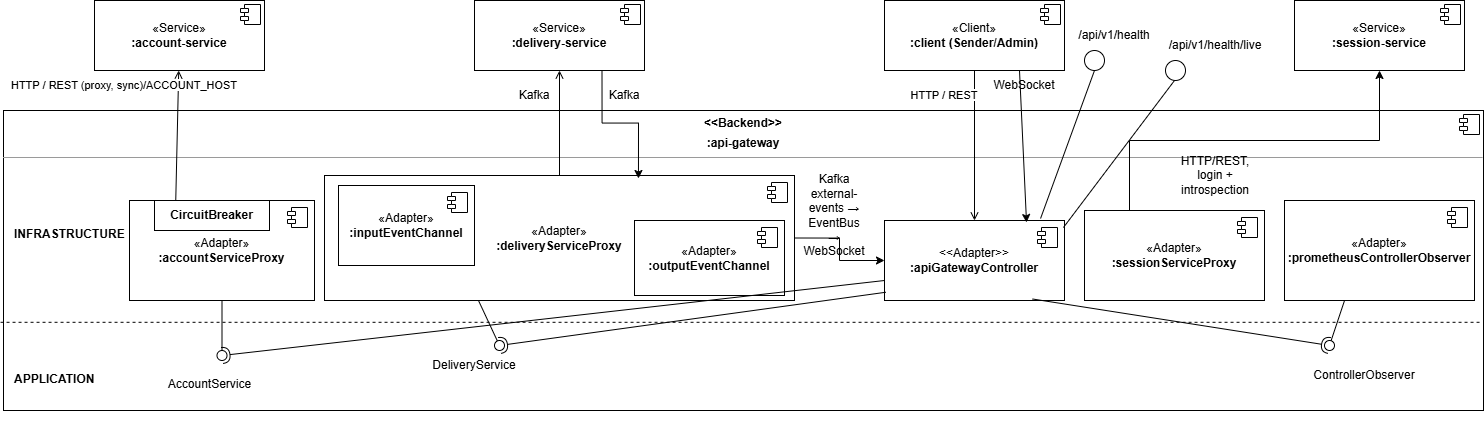
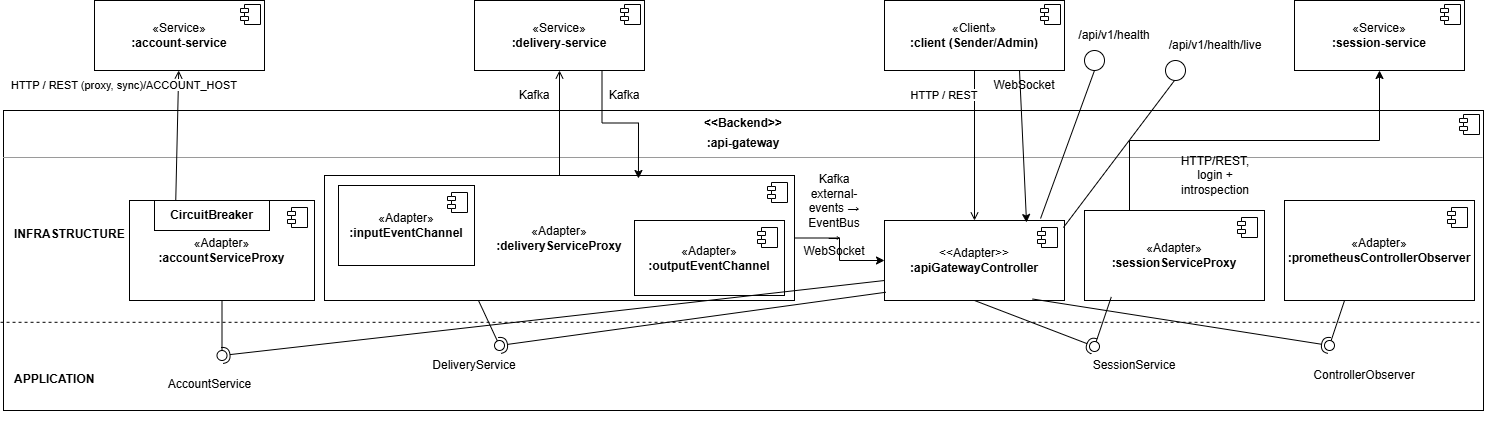
Remove comments and Update gateway diagram

diff --git a/delivery-service/src/test/java/it/unibo/sap/delivery/infrastructure/DeliveryRecoveryServiceTest.java b/delivery-service/src/test/java/it/unibo/sap/delivery/infrastructure/DeliveryRecoveryServiceTest.java
@@ -53,8 +53,6 @@ class DeliveryRecoveryServiceTest {
     @TempDir
     Path tempDir;
 
-    // Stop every FleetModule we start, or the DroneAgent worker threads leak and later tests hit
-    // RejectedExecutionException (see A3 commit 931b2c3).
     private final List<FleetModule> startedFleets = new ArrayList<>();
 
     @AfterEach
@@ -174,7 +172,6 @@ class DeliveryRecoveryServiceTest {
         restart().recover();
         final int eventsAfterFirst = storeFromFile().load(id).size();
 
-        // second restart: fresh store from the same file, fresh fleet — must not cancel twice
         restart().recover();
         final int eventsAfterSecond = storeFromFile().load(id).size();
 
@@ -223,7 +220,7 @@ class DeliveryRecoveryServiceTest {
         final ByteArrayOutputStream capturedErr = new ByteArrayOutputStream();
         System.setErr(new PrintStream(capturedErr, true, StandardCharsets.UTF_8));
         try {
-            new DeliveryRecoveryService(base.repository(), faulty).recover();  // must not propagate
+            new DeliveryRecoveryService(base.repository(), faulty).recover();
         } finally {
             System.setErr(originalErr);
         }

diff --git a/delivery-service/src/main/java/it/unibo/sap/delivery/infrastructure/FleetMonitoringController.java b/delivery-service/src/main/java/it/unibo/sap/delivery/infrastructure/FleetMonitoringController.java
@@ -31,9 +31,6 @@ public class FleetMonitoringController extends AbstractVerticle implements Input
     @Override
     public void start(final Promise<Void> startPromise) {
         final Router router = Router.router(vertx);
-        // ADMIN role gate. requireRole introspects (blocking) so it runs as a blockingHandler.
-        // TRANSITIONAL (STEP 5): missing X-Session-Id => legacy pass-through (the gateway does not
-        // yet propagate identity on admin routes); STEP 6 makes it strict.
         router.get("/api/v1/admin/fleet")
                 .blockingHandler(authorizer.requireRole(ROLE_ADMIN))
                 .handler(this::handleViewFleet);

diff --git a/api-gateway/src/main/java/it/unibo/sap/gateway/infrastructure/APIGatewayController.java b/api-gateway/src/main/java/it/unibo/sap/gateway/infrastructure/APIGatewayController.java
@@ -23,9 +23,7 @@ public class APIGatewayController extends AbstractVerticle implements InputAdapt
     private static final String TRACK_PREFIX = "/api/v1/track/";
 
     private final AccountService accountServiceProxy;
-    // Concreto: il controller usa il bridge di tracking (deliveryIdFor/ownerFor/createAnEventChannel/forgetTrackingSession), che espone tipi di infrastructure fuori dalla porta.
     private final DeliveryServiceProxy deliveryServiceProxy;
-    // Concreto: il controller invoca introspect(), tenuto fuori dalla porta per non spostare ValidatedCaller in application.
     private final SessionServiceProxy sessionServiceProxy;
     private final String publicHost;
     private final int port;

diff --git a/api-gateway/src/test/java/it/unibo/sap/gateway/infrastructure/TrackingAuthorizationIntegrationTest.java b/api-gateway/src/test/java/it/unibo/sap/gateway/infrastructure/TrackingAuthorizationIntegrationTest.java
@@ -19,7 +19,7 @@ import static org.junit.jupiter.api.Assertions.assertEquals;
 import static org.junit.jupiter.api.Assertions.assertTrue;
 
 /**
- * Authorization of the gateway tracking WebSocket (STEP 6). The gateway is the only point that sees
+ * Authorization of the gateway tracking WebSocket. The gateway is the only point that sees
  * the WS handshake (the stream never crosses Kafka), so it authorizes the OWNER there, at the upgrade,
  * before any relay channel is opened. The owner of a tracking session is seeded deterministically (the
  * real capture path via {@code trackDelivery} is covered by {@link DeliveryServiceProxyIntegrationTest});

diff --git a/system-end-to-end/src/test/java/AvailabilityTest.java b/system-end-to-end/src/test/java/AvailabilityTest.java
@@ -21,7 +21,7 @@ import static org.assertj.core.api.Assertions.assertThat;
  * Lancia un batch di richieste di DOMINIO che hanno SUCCESSO end-to-end (login valido -> 200) e verifica
  * il rapporto sul DELTA prodotto da questo carico (i contatori del gateway sono cumulativi dall'avvio, e
  * altri test possono aver introdotto 4xx: si misura la finestra). Le probe di health sono escluse dagli
- * SLI (STEP 7), quindi non falsano il rapporto.
+ * SLI, quindi non falsano il rapporto.
  */
 class AvailabilityTest {
 

diff --git a/system-end-to-end/src/test/java/PerformanceTest.java b/system-end-to-end/src/test/java/PerformanceTest.java
@@ -20,7 +20,7 @@ import static org.assertj.core.api.Assertions.assertThat;
  * QA scenario — THROUGHPUT (SLI-2). Manda un carico di richieste di DOMINIO (login) al gateway, ognuna
  * su un proprio virtual thread, e misura il throughput come DELTA di {@code rest_requests} diviso la
  * finestra temporale del carico. Deve superare i 40 req/s (SLO-2). Le probe di health sono escluse da
- * {@code rest_requests} (STEP 7), quindi il carico deve colpire un endpoint di dominio (non /health/live).
+ * {@code rest_requests}, quindi il carico deve colpire un endpoint di dominio (non /health/live).
  */
 class PerformanceTest {
 